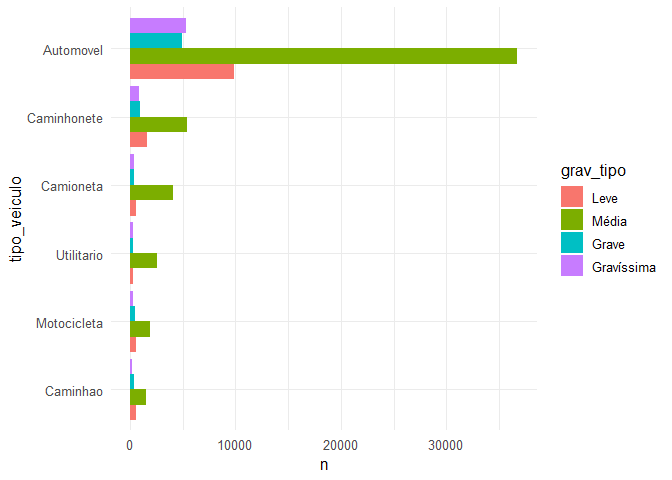
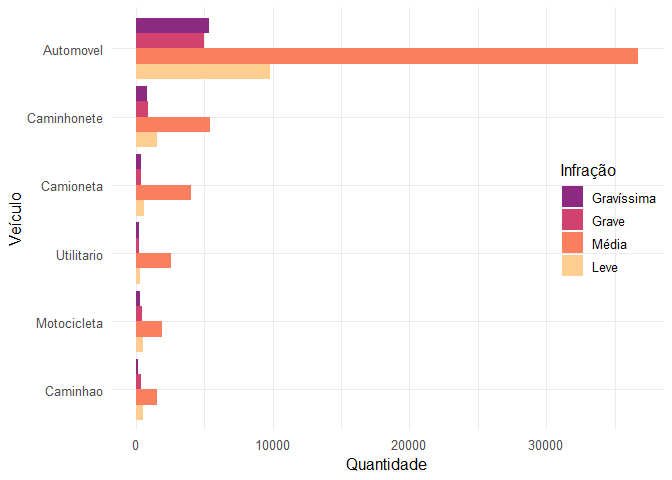
atualizacao visualizacao

diff --git a/README.md b/README.md
@@ -67,11 +67,12 @@ base <- derdf.infracoes::base_infracoes_derdf_abril_21
 ```
 
 ``` r
+
 gravidade_veic <- base %>% 
   dplyr::group_by(tipo_veiculo, grav_tipo) %>% 
   dplyr::tally() %>% 
   dplyr::group_by(tipo_veiculo) %>% 
-  dplyr::mutate(n_veic = sum(n)) %>% arrange(desc(n_veic)) %>% 
+  dplyr::mutate(n_veic = sum(n)) %>%  
   # selecionando os principais veiculos registrados
   dplyr::filter(n_veic > 1000) %>% 
   dplyr::ungroup() %>% 
@@ -81,11 +82,43 @@ gravidade_veic <- base %>%
 
 ``` r
 gravidade_veic %>% 
-  ggplot() + 
-  scale_colour_brewer(palette = "YlOrRd") +
-  geom_col(aes(x = tipo_veiculo, y = n, fill = grav_tipo), position = "dodge") +
+  ggplot(aes(x = tipo_veiculo, y = n, fill = grav_tipo)) + 
+  scale_fill_viridis_d(option = "A", begin = .9, end = .4) +
+  geom_col(position = "dodge") +
   coord_flip() +
-  theme_minimal(12)
+  labs(x = "Veículo", y = "Quantidade", fill = "Infração") +
+  guides(fill = guide_legend(reverse = TRUE)) +
+  theme_minimal(12) +
+  theme(legend.position = c(.9,.5))
 ```
 
 <img src="man/figures/README-unnamed-chunk-4-1.png" width="100%" />
+
+``` r
+gravidade_rodovia <- base %>% 
+  dplyr::group_by(auinf_local_rodovia_codigo, grav_tipo) %>% 
+  dplyr::tally() %>% 
+  # retirando NA e Vias de Ligação e selecionando as 
+  # rodovias com mais de 1000 registros de infração
+  filter(!is.na(auinf_local_rodovia_codigo),
+         !stringr::str_detect(auinf_local_rodovia_codigo, "VIA.")) %>% 
+  dplyr::group_by(auinf_local_rodovia_codigo) %>% 
+  dplyr::mutate(n_rodovia = sum(n)) %>%  
+  # selecionando os principais veiculos registrados
+  dplyr::ungroup() %>% 
+  dplyr::filter(n_rodovia > 1000) %>% 
+  dplyr::mutate(auinf_local_rodovia_codigo = forcats::fct_reorder(auinf_local_rodovia_codigo, n_rodovia),
+                grav_tipo = factor(grav_tipo, levels = c("Leve", "Média", "Grave", "Gravíssima"))) 
+  
+gravidade_rodovia %>% 
+  ggplot(aes(x = auinf_local_rodovia_codigo, y = n, fill = grav_tipo)) + 
+  scale_fill_viridis_d(option = "A", begin = .9, end = .4) +
+  geom_col() +
+  coord_flip() +
+  labs(x = "Rodovia", y = "Quantidade", fill = "Infração") +
+  guides(fill = guide_legend(reverse = TRUE)) +
+  theme_minimal(12) +
+  theme(legend.position = c(.9,.5))
+```
+
+<img src="man/figures/README-unnamed-chunk-5-1.png" width="100%" />
